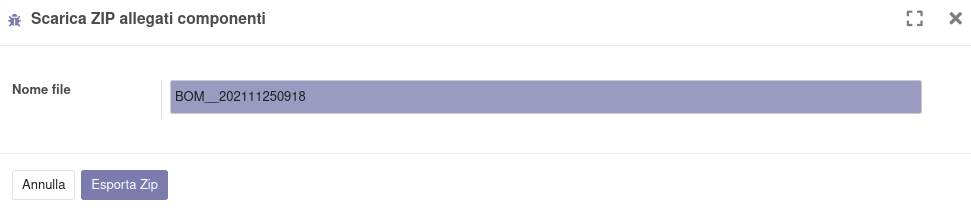
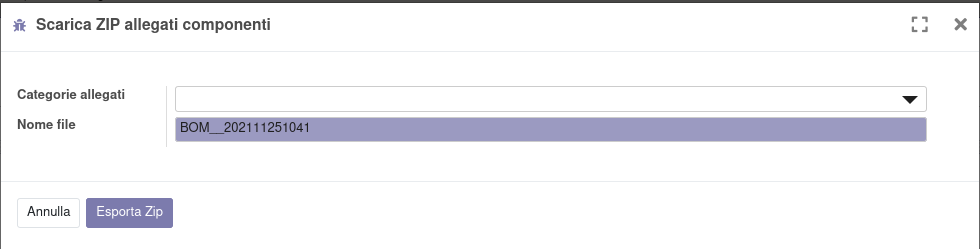
[IMP] filter atts by categories

diff --git a/mrp_bom_attachment_export/wizard/mrp_bom_attachment_export.py b/mrp_bom_attachment_export/wizard/mrp_bom_attachment_export.py
@@ -38,11 +38,18 @@ class WizardMrpBomAttachmentExport(models.TransientModel):
     )
     data = fields.Binary("File", readonly=True)
     name = fields.Char('Filename', default=_default_name, required=True)
+    attachment_ctg_ids = fields.Many2many(
+        'ir.attachment.category',
+        string='Attachment categories',
+    )
 
     @api.multi
     def export_zip(self):
         self.ensure_one()
         attachments = self.product_ids.mapped('product_tmpl_id.all_attachment_ids')
+        if self.attachment_ctg_ids:
+            attachments = attachments.filtered(
+                lambda x: any(y in self.attachment_ctg_ids for y in x.category_ids))
         for att in attachments:
             if not att.datas or not att.datas_fname:
                 raise UserError(

diff --git a/mrp_bom_attachment_export/__manifest__.py b/mrp_bom_attachment_export/__manifest__.py
@@ -11,6 +11,7 @@
     'author': 'Sergio Corato',
     'website': 'https://efatto.it',
     'depends': [
+        'attachment_category',
         'mrp',
         'product_attachments_button',
     ],
